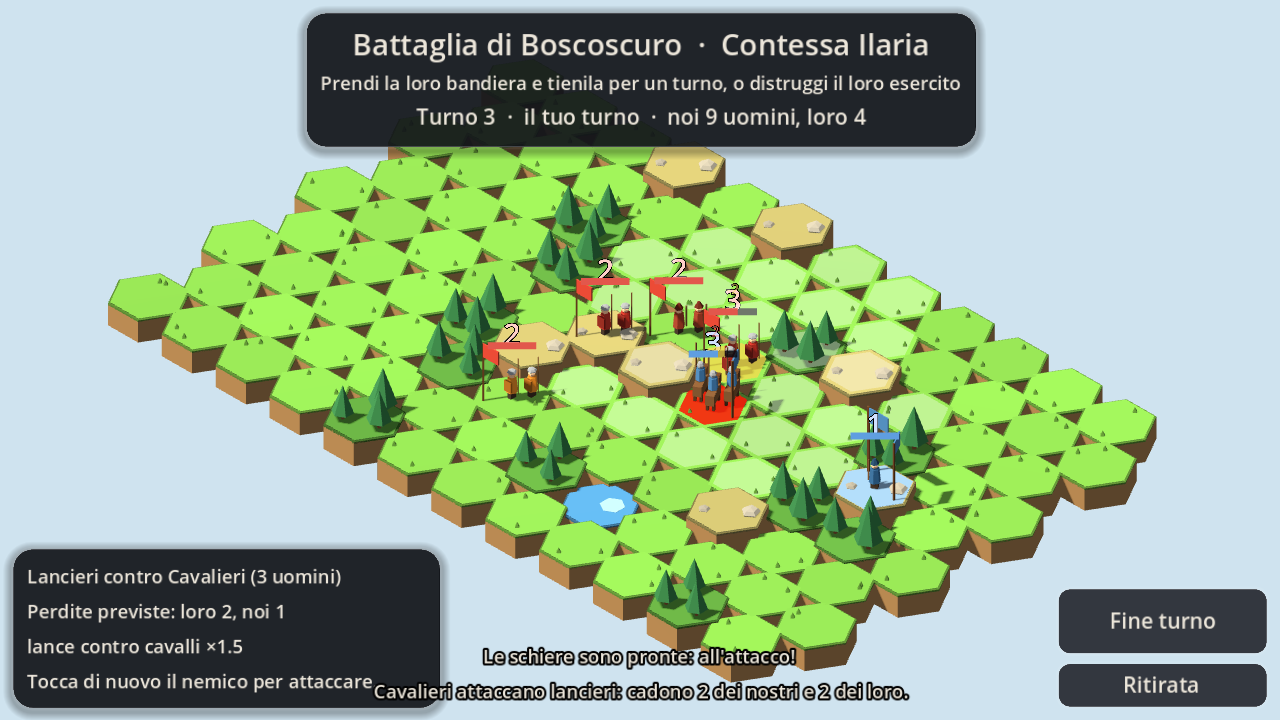
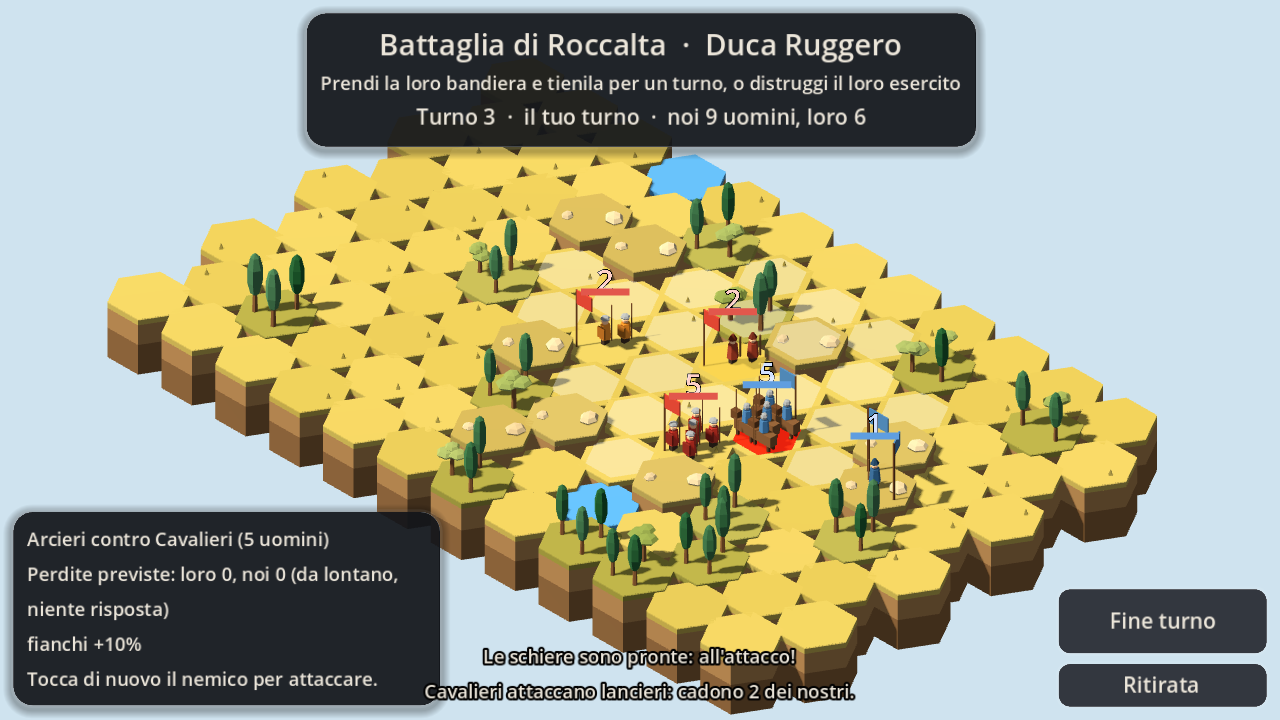
Battaglia: il campo ha il terreno del gioco (clima della regione e stagione)
- Colori del suolo, alberi (forme e colori) e luce dal clima della regione dove si combatte
- Celle a fetta di terra come nel feudo, rocce del clima sulle colline
- VistaTerreno.forma_chioma statica, usata anche dal campo

Claude-Session: https://claude.ai/code/session_01HB6biVsgBh9Gjq9GsZXPX1

diff --git a/README.md b/README.md
@@ -121,7 +121,7 @@ Nel feudo si torna al regno con il pulsante "Regno" o rimpicciolendo oltre lo zo
   - **Alleanza** (dono di 30 oro, solo con un signore): più è amichevole, più è facile che accetti. Un alleato manda
     rinforzi contro i banditi e un piccolo dono ogni stagione.
   - **Attacco e battaglia** (in stile Humankind): parte tutto l'esercito a casa e arriva dopo un mese. Allora si apre
-    il **campo di battaglia a esagoni** (colline, boschetti e stagni a macchie): le nostre unità a sinistra (lancieri,
+    il **campo di battaglia a esagoni**, con il terreno del gioco: i colori del suolo, gli alberi e la luce del clima della regione e della stagione, le celle a fetta di terra come nel feudo (colline, boschetti e stagni a macchie): le nostre unità a sinistra (lancieri,
     spadaccini, arcieri, balestrieri, cavalieri; uomini dei vassalli), quelle nemiche a destra a difesa della loro
     **bandiera** (cavalieri e balestrieri dei signori, predoni, contadini armati). Prima lo **schieramento**: si tocca
     una nostra unità e poi una cella della zona azzurra (sulle nostre unità si scambiano), poi "Inizia la battaglia".
